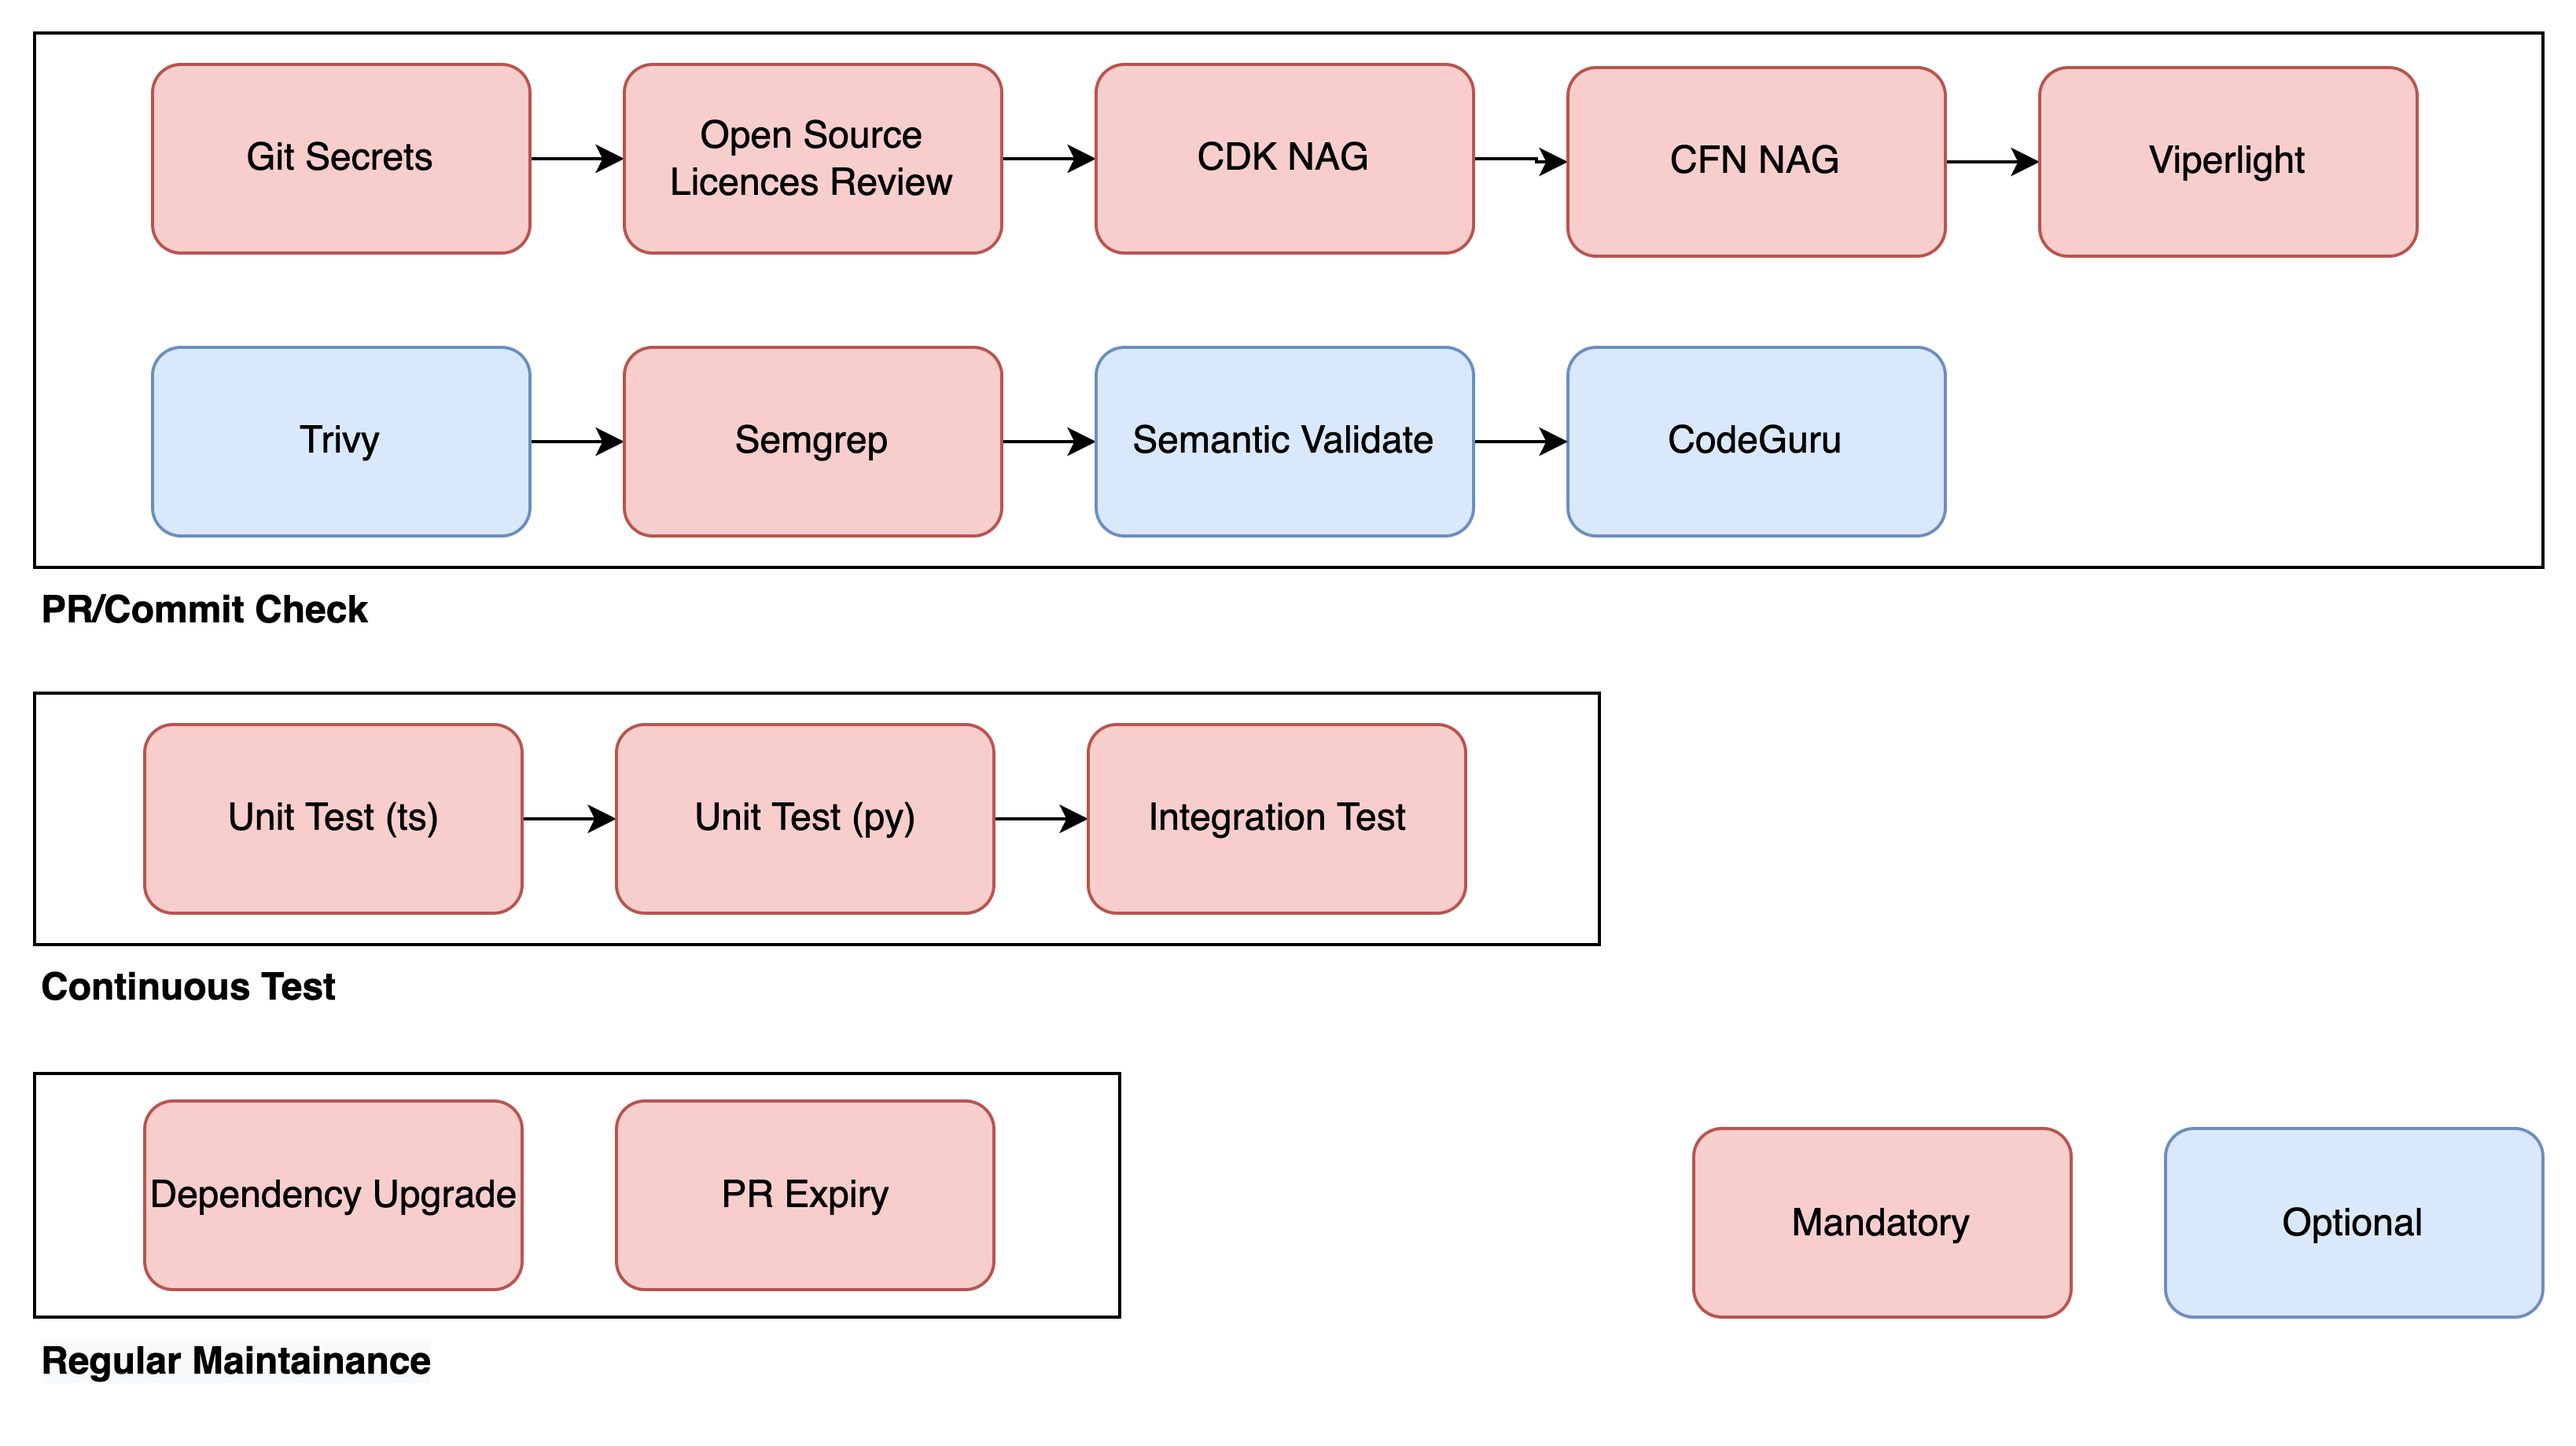
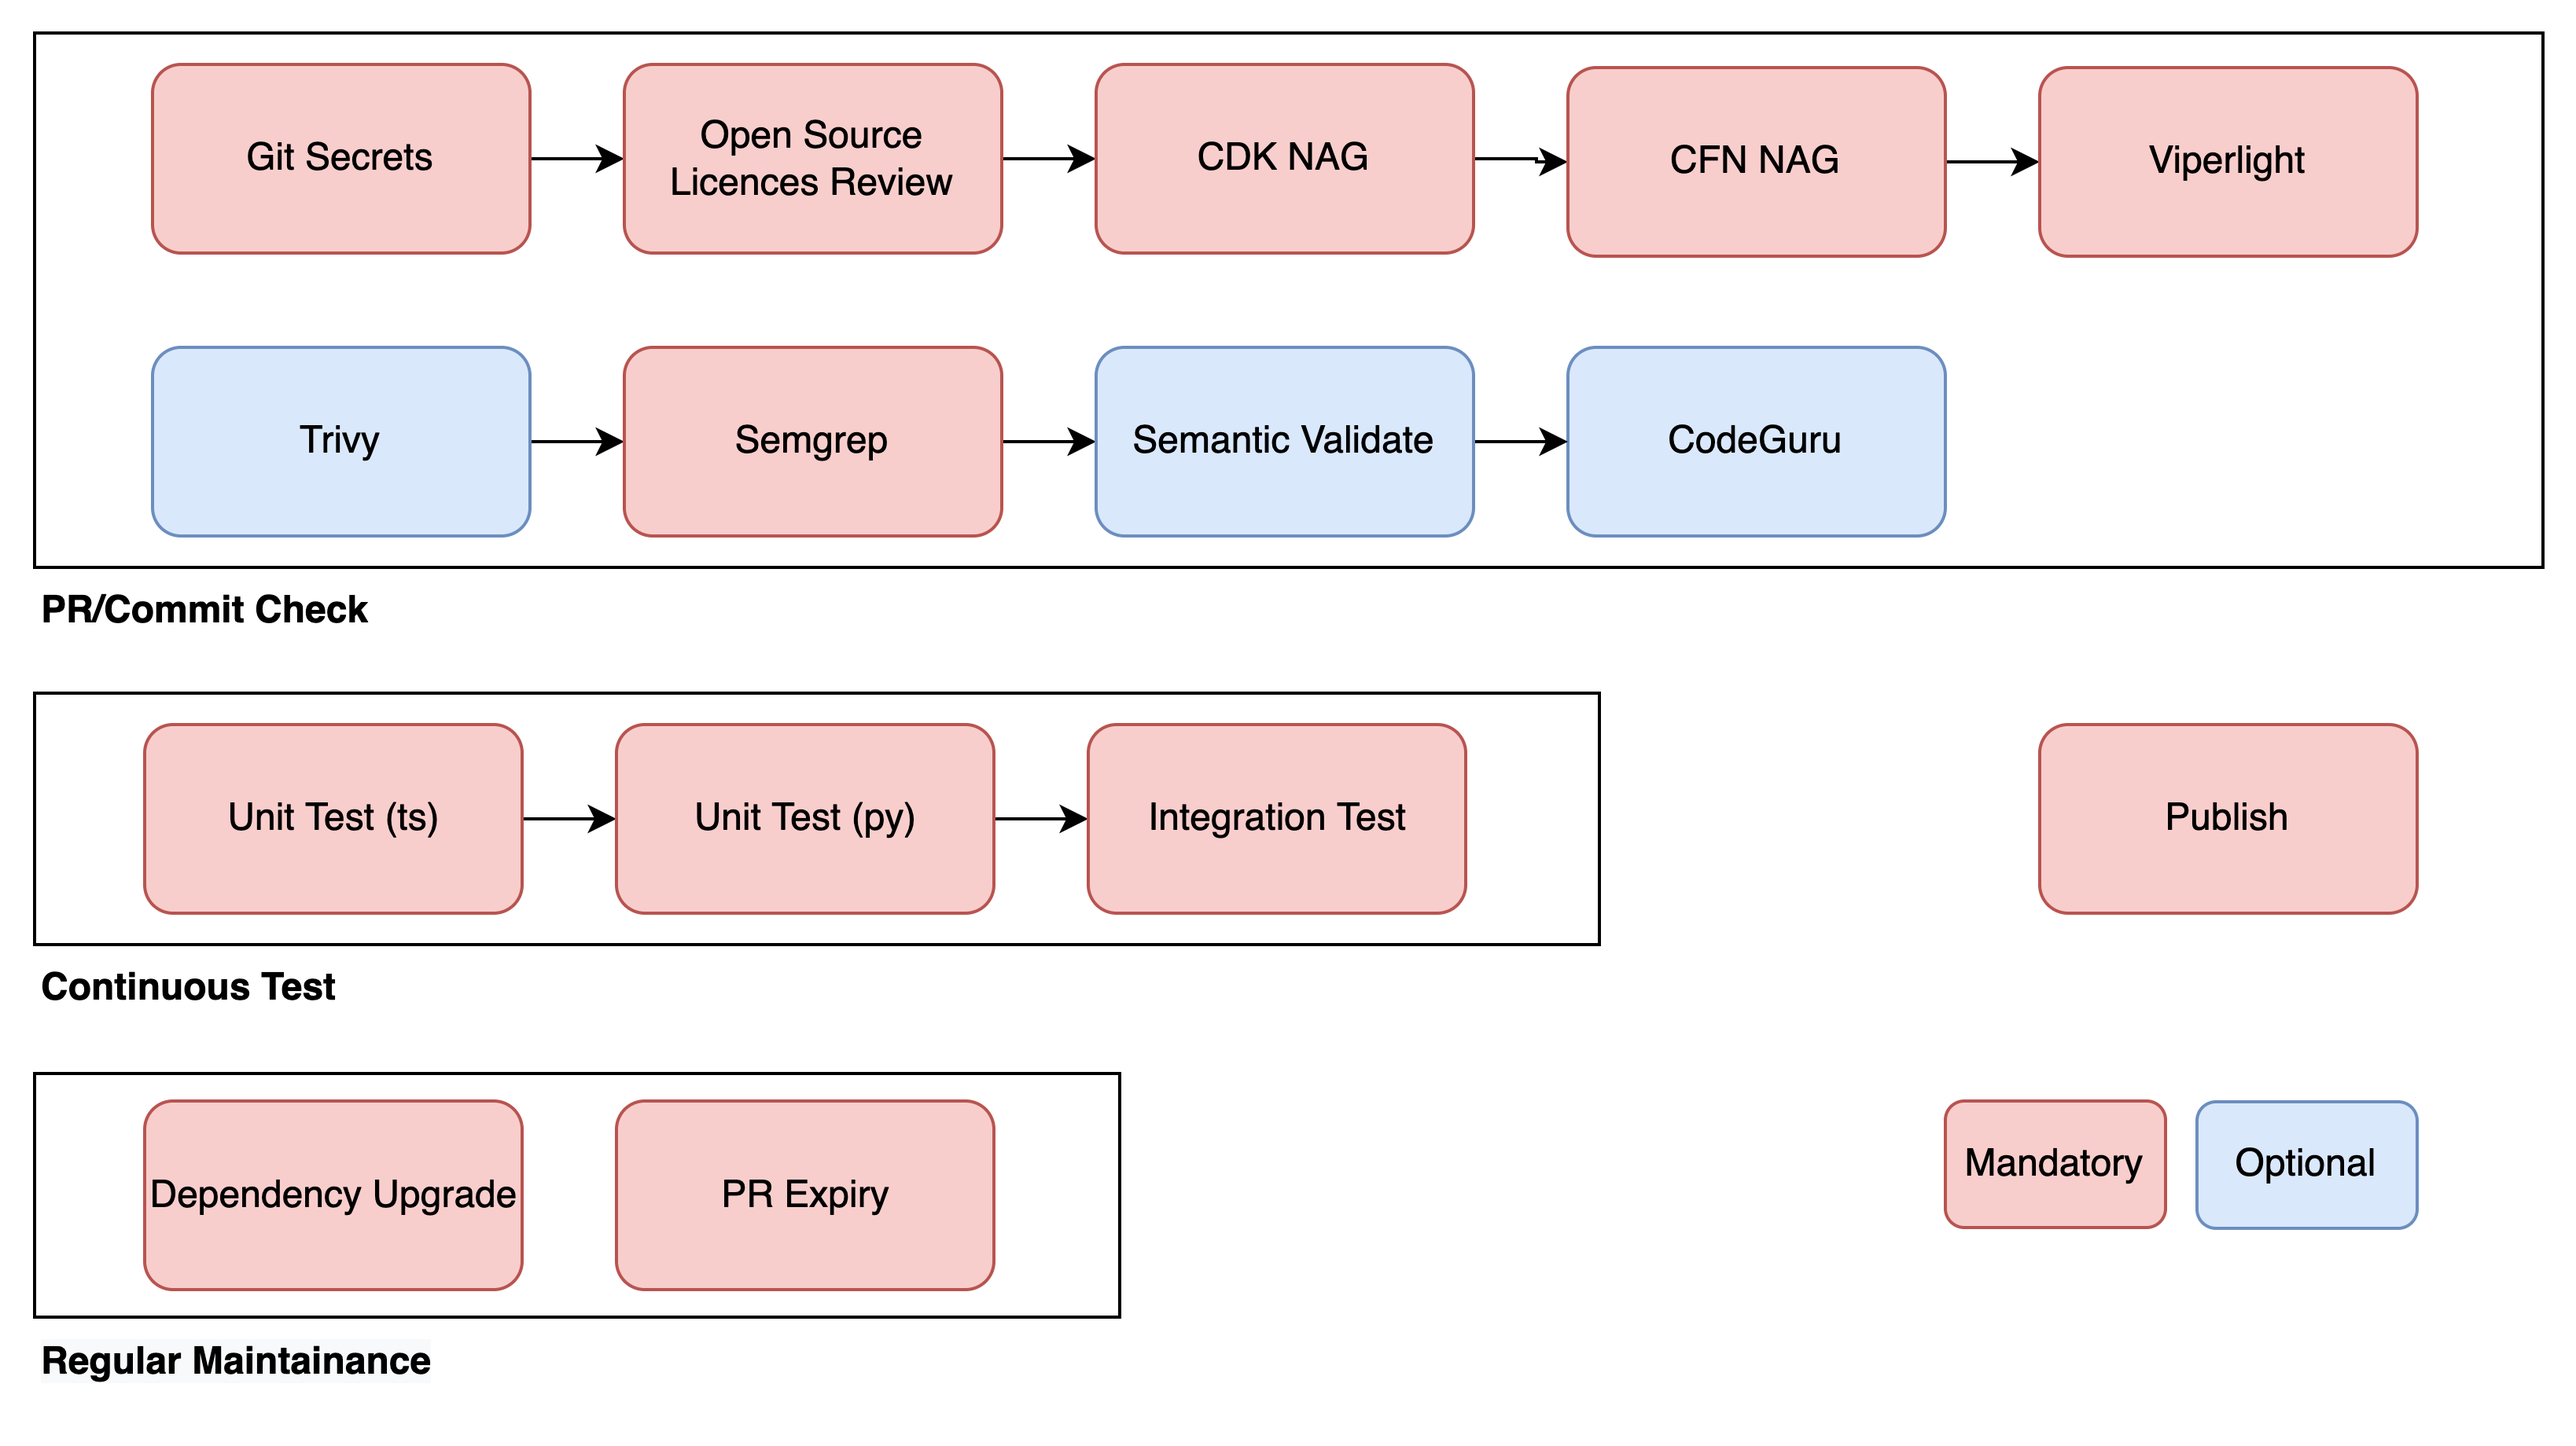
feat: tweak for readme

Changed region(s): [[0.6538, 0.7435, 0.9963, 0.9293], [0.7784, 0.4957, 0.9652, 0.6505]]

diff --git a/README.md b/README.md
@@ -11,20 +11,19 @@ The workflow is composed of 5 stages: build, test, maintainance, publish, cleanu
 2. Copy the files from the `workflow` directory to the root of your repository
 3. Execute the `workflow` script to start the workflow
 
-## Build Stage
-The build stage is used to build the project. It is executed by the `build` script.
+There are typical stage for a workflow. You can add or remove stages as you need. The scripts are executed in the order of PR/Commit Check, Test (UT/ST/IT), Maintainance, Publish or on demand.
 
-## Test Stage
-The test stage is used to test the project by usage of UT/ST/Acceptance tests. It is executed by the `test*` script.
+## PR/Commit Check
+The PR/Commit Check stage is executed when a PR is created or a commit is pushed to the repository, to gurarantee the code quality according to the rules defined in the scripts.
 
-## Maintain Stage
-The maintain stage is used for maintainance tasks, including routine dependency update, PR lint, commit Lint. It is executed by the `depUpgrade`, `prLint`, `commitLint`, `issueExpiry` script.
+## Test
+The Test stage can be execute manually or automatically. It is used to test the actual deployed Amplify/REST API by using Postman/Newman. The Unit Test scripts are defined in the `test` directory while the Integration Test scripts are defined in the postman collection.
 
-## Publish Stage
-The deploy stage is used to deploy the project. It is executed by the `publish` script.
+## Maintainance
+The Maintainance stage mainly used to update the dependencies of the project for security reasons, and operate the PR lifecycle.
 
-## Cleanup Stage
-The cleanup stage is used to clean up the project. It is executed by the `cleanup` script.
+## Publish
+The Publish stage is used to publish the CloudFormation template to S3 bucket and generate implementation guide for the solution with use of MKDocs.
 
 ## Other Reference
 - https://docs.github.com/en/actions/using-workflows/
